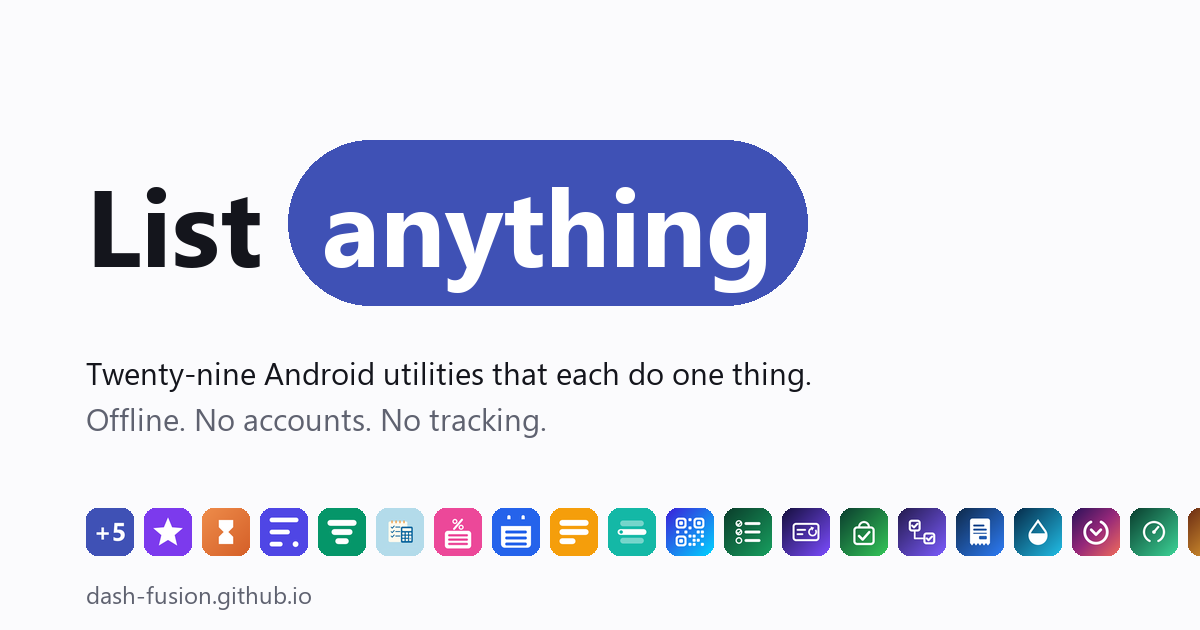
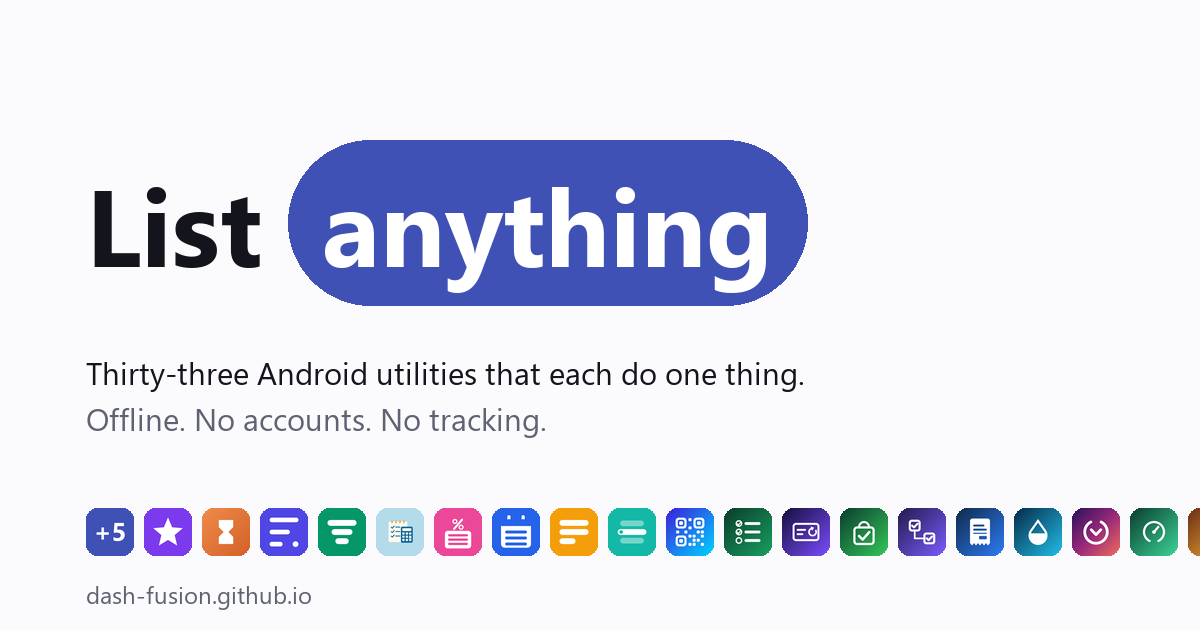
Birthdays, Car Log and Chores on the landing page
The site was three apps behind, not two: Birthdays was missed at its own
launch as well. gen_social.py was a fourth behind that - Diary with Lock has
had an icon on disk since 2026-09-06 and was never in APPS, so it has been
absent from the social image and the apple-touch icon.

Two things the verification caught rather than the edit.

numberOfItems said 31 while the JSON-LD already held 32 items, so appending
from that number put Birthdays on top of Potion Sort at position 32. The count
inside the document was already one behind the document itself. Positions are
now 1..35 with no duplicates and the JSON parses.

The count word lives in FOUR places and the fourth is worded differently: the
meta tags say Thirty small Android utilities and the lede says Thirty Android
utilities, so a replace keyed on the meta phrasing silently missed the one a
reader actually sees. Same shape in gen_social.py, where the line is spelled
out rather than interpolated - which is why a regex looking for a digit found
nothing and the image kept saying Twenty-nine. There is a comment there now
saying so.

Thirty-three utilities plus two games, counted the way this site has always
counted them.

Changed region(s): [[0.0617, 0.573, 0.6783, 0.6333]]

diff --git a/index.html b/index.html
@@ -5,7 +5,7 @@
 <meta name="viewport" content="width=device-width, initial-scale=1">
 
 <title>Dash Fusion — offline-first Android utility apps</title>
-<meta name="description" content="Thirty small Android utilities that each do one thing well — counters, timers, budgets, subscriptions, shopping lists, notes, QR codes and more — plus two offline games: Potion Sort color-sort puzzles and Neon PingPong arcade duels. Everything works fully offline, with no account required.">
+<meta name="description" content="Thirty-three small Android utilities that each do one thing well — counters, timers, budgets, subscriptions, shopping lists, notes, QR codes and more — plus two offline games: Potion Sort color-sort puzzles and Neon PingPong arcade duels. Everything works fully offline, with no account required.">
 <link rel="canonical" href="https://dash-fusion.github.io/">
 <meta name="author" content="Dash Fusion">
 <meta name="robots" content="index, follow, max-image-preview:large">
@@ -16,14 +16,14 @@
 <meta property="og:site_name" content="Dash Fusion">
 <meta property="og:url" content="https://dash-fusion.github.io/">
 <meta property="og:title" content="Dash Fusion — offline-first Android utility apps">
-<meta property="og:description" content="Thirty small Android utilities that each do one thing well, plus two offline games — Potion Sort and Neon PingPong. No account required.">
+<meta property="og:description" content="Thirty-three small Android utilities that each do one thing well, plus two offline games — Potion Sort and Neon PingPong. No account required.">
 <meta property="og:image" content="https://dash-fusion.github.io/og.png">
 <meta property="og:image:width" content="1200">
 <meta property="og:image:height" content="630">
 <meta property="og:image:alt" content="Dash Fusion — List anything. The thirty app icons in a row.">
 <meta name="twitter:card" content="summary_large_image">
 <meta name="twitter:title" content="Dash Fusion — offline-first Android utility apps">
-<meta name="twitter:description" content="Thirty small Android utilities that each do one thing well, plus two offline games — Potion Sort and Neon PingPong. No account required.">
+<meta name="twitter:description" content="Thirty-three small Android utilities that each do one thing well, plus two offline games — Potion Sort and Neon PingPong. No account required.">
 <meta name="twitter:image" content="https://dash-fusion.github.io/og.png">
 
 <link rel="icon" href="/favicon.svg" type="image/svg+xml">
@@ -320,7 +320,7 @@ a{color:inherit}
 <header class="masthead shell">
   <p class="eyebrow">Dash Fusion</p>
   <h1 class="wordmark">List <span class="slot" id="slot"><span class="slot-text" id="slotText">anything</span></span></h1>
-  <p class="lede">Thirty Android utilities that each do <strong>one thing</strong> — and two offline games for your breaks. Everything works offline, keeps your data on your phone, and never asks who you are.</p>
+  <p class="lede">Thirty-three Android utilities that each do <strong>one thing</strong> — and two offline games for your breaks. Everything works offline, keeps your data on your phone, and never asks who you are.</p>
   <span class="slot-measure" id="slotMeasure" aria-hidden="true"></span>
 </header>
 
@@ -459,7 +459,33 @@ a{color:inherit}
           </div>
         </div>
       </li>
-    </ul>
+          <li class="row" style="--hue:#FB7185;--deep:#9F1239">
+        <div class="row-in">
+          <img class="row-icon" src="icons/list-birthday.png" width="46" height="46" alt="" decoding="async">
+          <div>
+            <h3 class="row-name">Birthdays</h3>
+            <p class="row-desc">Birthdays with ages and reminders - and it handles 29 February and unknown years properly.</p>
+          </div>
+          <div class="row-links">
+            <a class="play-link" href="https://play.google.com/store/apps/details?id=com.dashfusion.listbirthday" aria-label="Birthdays on Google Play" title="Get it on Google Play"><svg class="play-glyph" aria-hidden="true" focusable="false"><use href="#gplay"></use></svg></a>
+            <a href="https://dash-fusion.github.io/privacy/list-birthday" aria-label="Birthdays privacy policy">Privacy</a>
+          </div>
+        </div>
+      </li>
+      <li class="row" style="--hue:#F5A524;--deep:#92400E">
+        <div class="row-in">
+          <img class="row-icon" src="icons/list-car.png" width="46" height="46" alt="" decoding="async">
+          <div>
+            <h3 class="row-name">Car Log</h3>
+            <p class="row-desc">Service history and reminders, due by date OR by odometer - whichever comes first.</p>
+          </div>
+          <div class="row-links">
+            <a class="play-link" href="https://play.google.com/store/apps/details?id=com.dashfusion.listcar" aria-label="Car Log on Google Play" title="Get it on Google Play"><svg class="play-glyph" aria-hidden="true" focusable="false"><use href="#gplay"></use></svg></a>
+            <a href="https://dash-fusion.github.io/privacy/list-car" aria-label="Car Log privacy policy">Privacy</a>
+          </div>
+        </div>
+      </li>
+</ul>
   </section>
 
   <section class="group">
@@ -691,7 +717,20 @@ a{color:inherit}
           </div>
         </div>
       </li>
-    </ul>
+          <li class="row" style="--hue:#4FD1A5;--deep:#0F6B4F">
+        <div class="row-in">
+          <img class="row-icon" src="icons/list-chores.png" width="46" height="46" alt="" decoding="async">
+          <div>
+            <h3 class="row-name">Chores</h3>
+            <p class="row-desc">A cleaning schedule that also settles whose turn it is - worked out from what actually got done.</p>
+          </div>
+          <div class="row-links">
+            <a class="play-link" href="https://play.google.com/store/apps/details?id=com.dashfusion.listchores" aria-label="Chores on Google Play" title="Get it on Google Play"><svg class="play-glyph" aria-hidden="true" focusable="false"><use href="#gplay"></use></svg></a>
+            <a href="https://dash-fusion.github.io/privacy/list-chores" aria-label="Chores privacy policy">Privacy</a>
+          </div>
+        </div>
+      </li>
+</ul>
   </section>
 
   <section class="group">
@@ -827,6 +866,9 @@ a{color:inherit}
   /* Deepened brand hues — each one clears 4.5:1 behind the pill's white text.
      The rows below still use the true brand colors, where nothing sits on top. */
   var items = [
+    {t:'Birthdays',  c:'#9F1239'},
+    {t:'Car Log',    c:'#92400E'},
+    {t:'Chores',     c:'#0F6B4F'},
     {t:'anything',   c:'#3F51B5'},
     {t:'Counter',    c:'#3F51B5'},
     {t:'Score',      c:'#7C3AED'},
@@ -923,7 +965,7 @@ a{color:inherit}
     {
       "@type":"ItemList",
       "name":"Dash Fusion Android apps",
-      "numberOfItems":31,
+      "numberOfItems":35,
       "itemListElement":[
         {"@type":"ListItem","position":1,"item":{"@type":"MobileApplication","name":"List Counter","applicationCategory":"UtilitiesApplication","operatingSystem":"Android","url":"https://play.google.com/store/apps/details?id=com.dashfusion.listcounter","image":"https://dash-fusion.github.io/icons/list-counter.png","description":"Tally reps, stock, laps or attendees with as many counters as you need.","author":{"@id":"https://dash-fusion.github.io/#org"},"offers":{"@type":"Offer","price":"0","priceCurrency":"USD"}}},
         {"@type":"ListItem","position":2,"item":{"@type":"MobileApplication","name":"List Habit","applicationCategory":"UtilitiesApplication","operatingSystem":"Android","url":"https://play.google.com/store/apps/details?id=com.dashfusion.listhabit","image":"https://dash-fusion.github.io/icons/list-habit.png","description":"Offline habit tracker — daily, weekday or weekly-goal habits with streaks, a month calendar and gentle reminders.","author":{"@id":"https://dash-fusion.github.io/#org"},"offers":{"@type":"Offer","price":"0","priceCurrency":"USD"}}},
@@ -955,7 +997,7 @@ a{color:inherit}
         {"@type":"ListItem","position":28,"item":{"@type":"MobileApplication","name":"Flashcards","applicationCategory":"EducationalApplication","operatingSystem":"Android","url":"https://play.google.com/store/apps/details?id=com.dashfusion.listflashcards","image":"https://dash-fusion.github.io/icons/list-flashcards.png","description":"Offline flashcards with real SM-2 spaced repetition - build your own decks, grade each card and let the schedule decide what is due today. Imports and exports plain CSV, so your decks stay yours. No account, no banner ads.","author":{"@id":"https://dash-fusion.github.io/#org"},"offers":{"@type":"Offer","price":"0","priceCurrency":"USD"}}},
         {"@type":"ListItem","position":29,"item":{"@type":"MobileApplication","name":"Unit Converter","applicationCategory":"UtilitiesApplication","operatingSystem":"Android","url":"https://play.google.com/store/apps/details?id=com.dashfusion.listconvert","image":"https://dash-fusion.github.io/icons/list-convert.png","description":"Offline unit converter across nine families - length, mass, temperature, area, volume, speed, time, data and pressure. Conversions are exact rational arithmetic rather than floating point, temperature handles a reading and a difference separately, and the answer carries as many digits as you asked for instead of twelve. No account, no banner ads.","author":{"@id":"https://dash-fusion.github.io/#org"},"offers":{"@type":"Offer","price":"0","priceCurrency":"USD"}}},
         {"@type":"ListItem","position":30,"item":{"@type":"MobileApplication","name":"Diary with Lock","applicationCategory":"LifestyleApplication","operatingSystem":"Android","url":"https://play.google.com/store/apps/details?id=com.dashfusion.listjournal","image":"https://dash-fusion.github.io/icons/list-journal.png","description":"An offline diary whose lock covers the entries rather than only the door. Entries and attached photos are encrypted at rest with AES-256-GCM under a key derived from your passphrase, which is never stored anywhere - so losing it means losing the diary, and the app says so before you set one. Search, a month calendar, writing prompts and a plain-text export that warns you it leaves the app protection. No account, no cloud, no banner ads.","author":{"@id":"https://dash-fusion.github.io/#org"},"offers":{"@type":"Offer","price":"0","priceCurrency":"USD"}}},{"@type":"ListItem","position":31,"item":{"@type":"MobileApplication","name":"Neon PingPong","applicationCategory":"GameApplication","operatingSystem":"Android","url":"https://play.google.com/store/apps/details?id=com.dashfusion.pingpong","image":"https://dash-fusion.github.io/icons/pingpong.png","description":"Neon arcade ping pong — solo vs AI, two players on one phone, or Wi-Fi multiplayer. Fully offline.","author":{"@id":"https://dash-fusion.github.io/#org"},"offers":{"@type":"Offer","price":"0","priceCurrency":"USD"}}},
-        {"@type":"ListItem","position":32,"item":{"@type":"MobileApplication","name":"Potion Sort","applicationCategory":"GameApplication","operatingSystem":"Android","url":"https://play.google.com/store/apps/details?id=com.dashfusion.potion_sort","image":"https://dash-fusion.github.io/icons/potion-sort.png","description":"Offline color-sort puzzle with 999 solver-verified levels and a daily challenge.","author":{"@id":"https://dash-fusion.github.io/#org"},"offers":{"@type":"Offer","price":"0","priceCurrency":"USD"}}}
+        {"@type":"ListItem","position":32,"item":{"@type":"MobileApplication","name":"Potion Sort","applicationCategory":"GameApplication","operatingSystem":"Android","url":"https://play.google.com/store/apps/details?id=com.dashfusion.potion_sort","image":"https://dash-fusion.github.io/icons/potion-sort.png","description":"Offline color-sort puzzle with 999 solver-verified levels and a daily challenge.","author":{"@id":"https://dash-fusion.github.io/#org"},"offers":{"@type":"Offer","price":"0","priceCurrency":"USD"}}},{"@type":"ListItem","position":33,"item":{"@type":"MobileApplication","name":"Birthdays","applicationCategory":"ProductivityApplication","operatingSystem":"Android","url":"https://play.google.com/store/apps/details?id=com.dashfusion.listbirthday","image":"https://dash-fusion.github.io/icons/list-birthday.png","description":"A birthday list that gets the two commonest awkward cases right. 29 February has no date in three years out of four, so the app asks once which day to use and never rewrites the stored date; and the birth year is genuinely optional, with no sentinel year that resurfaces as Age 0. Ages, days-until, reminders and a home-screen widget. No contacts permission - names are the ones you type.","author":{"@id":"https://dash-fusion.github.io/#org"},"offers":{"@type":"Offer","price":"0","priceCurrency":"USD"}}},{"@type":"ListItem","position":34,"item":{"@type":"MobileApplication","name":"Car Log","applicationCategory":"AutoAndVehiclesApplication","operatingSystem":"Android","url":"https://play.google.com/store/apps/details?id=com.dashfusion.listcar","image":"https://dash-fusion.github.io/icons/list-car.png","description":"A vehicle service log where an interval can be a date, a distance, or both - the way every garage sticker is written. Whichever comes first is ordered by fraction of the interval consumed, so it needs no usage rate, and when there is not enough data to forecast a distance the app says so instead of inventing a number. Odometer readings that go backwards are kept exactly as entered. No location, no Bluetooth, no account.","author":{"@id":"https://dash-fusion.github.io/#org"},"offers":{"@type":"Offer","price":"0","priceCurrency":"USD"}}},{"@type":"ListItem","position":35,"item":{"@type":"MobileApplication","name":"Chores","applicationCategory":"LifestyleApplication","operatingSystem":"Android","url":"https://play.google.com/store/apps/details?id=com.dashfusion.listchores","image":"https://dash-fusion.github.io/icons/list-chores.png","description":"A household cleaning schedule that also answers whose turn it is. The turn is not a stored pointer that breaks the first time somebody swaps - it goes to whoever has done that chore least, so it corrects itself, and the counts are shown next to the names. Bin day stays bin day whether you did it early or late, a month away does not come back as four things to tick, and nobody who moves in arrives owing a hundred turns. Works alone as a plain cleaning schedule. No account, no contacts, fully offline.","author":{"@id":"https://dash-fusion.github.io/#org"},"offers":{"@type":"Offer","price":"0","priceCurrency":"USD"}}}
       ]
     }
   ]

diff --git a/scripts/gen_social.py b/scripts/gen_social.py
@@ -26,6 +26,7 @@ APPS = [
     "counter", "score", "timer", "budget", "debt",
     "calculator", "percent", "date", "notes", "picker", "qr", "habit", "subs", "grocery",
     "todo", "invoice", "water", "countdown", "weight", "pack", "fast", "split", "savings", "meds", "baby", "recipe", "voice", "flashcards", "convert",
+    "journal", "birthday", "car", "chores",
 ]
 
 
@@ -63,7 +64,10 @@ def build_og(path):
 
     d.text(
         (left, py1 + 46),
-        "Twenty-nine Android utilities that each do one thing.",
+        "Thirty-three Android utilities that each do one thing.",
+        # Spelled out, not "%d" - so it does NOT move when APPS grows,
+        # and a regex looking for a digit will miss it. It was four apps
+        # behind on 2026-09-06 for exactly that reason.
         font=sub,
         fill=INK,
     )
